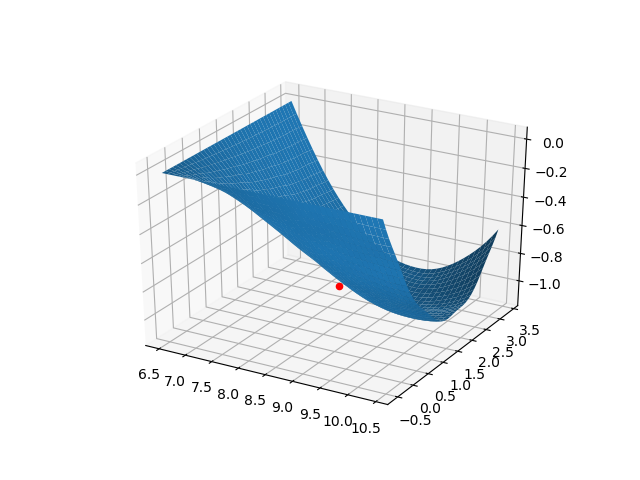
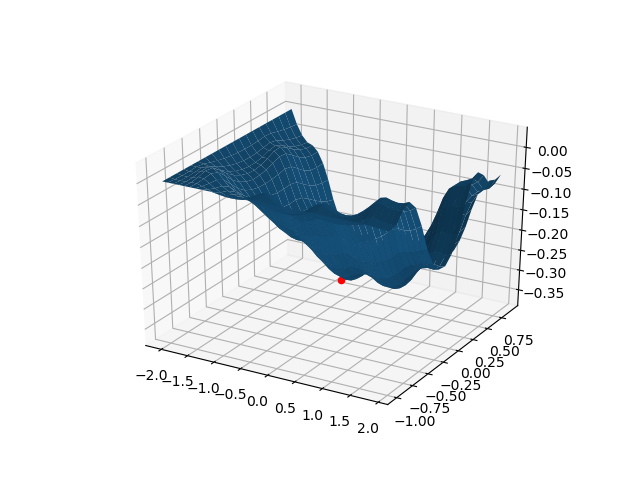
adding c disorder scripts

Changed region(s): [[0.2188, 0.1875, 0.9062, 0.9062], [0.625, 0.6562, 0.8438, 0.9062]]

diff --git a/RC_SET/dots_array.py b/RC_SET/dots_array.py
@@ -19,7 +19,7 @@ MINIMUM_STEPS_PER_DOT = 1000
 # Lyaponuv Constants
 EPS = 0.0001
 DQ = 0.1
-Q_SHIFT = [[2,1]]
+Q_SHIFT = 2
 GRAD_REP = 5
 INI_LR = 0.001
 
@@ -699,8 +699,8 @@ class GraphSimulator:
         fig = plt.figure()
         ax = fig.gca(projection='3d')
         ax.plot_surface(self.Q_grid[:,:,0],self.Q_grid[:,:,1],self.lyaponuv)
-        y = np.searchsorted(self.Q_grid[:,0,0], self.QG[0,0])
-        x = np.searchsorted(self.Q_grid[0,:,1], self.QG[0,1])
+        x = np.searchsorted(self.Q_grid[:,0,0], self.QG[0,0])
+        y = np.searchsorted(self.Q_grid[0,:,1], self.QG[0,1])
         ax.scatter3D(self.QG[0,0], self.QG[0,1], self.lyaponuv[x,y], marker='o',color='red')
         str_ind = "0"*(4-len(str(self.counter))) + str(self.counter)
         plt.savefig(basePath + "Lyaponuv_" + str_ind)
